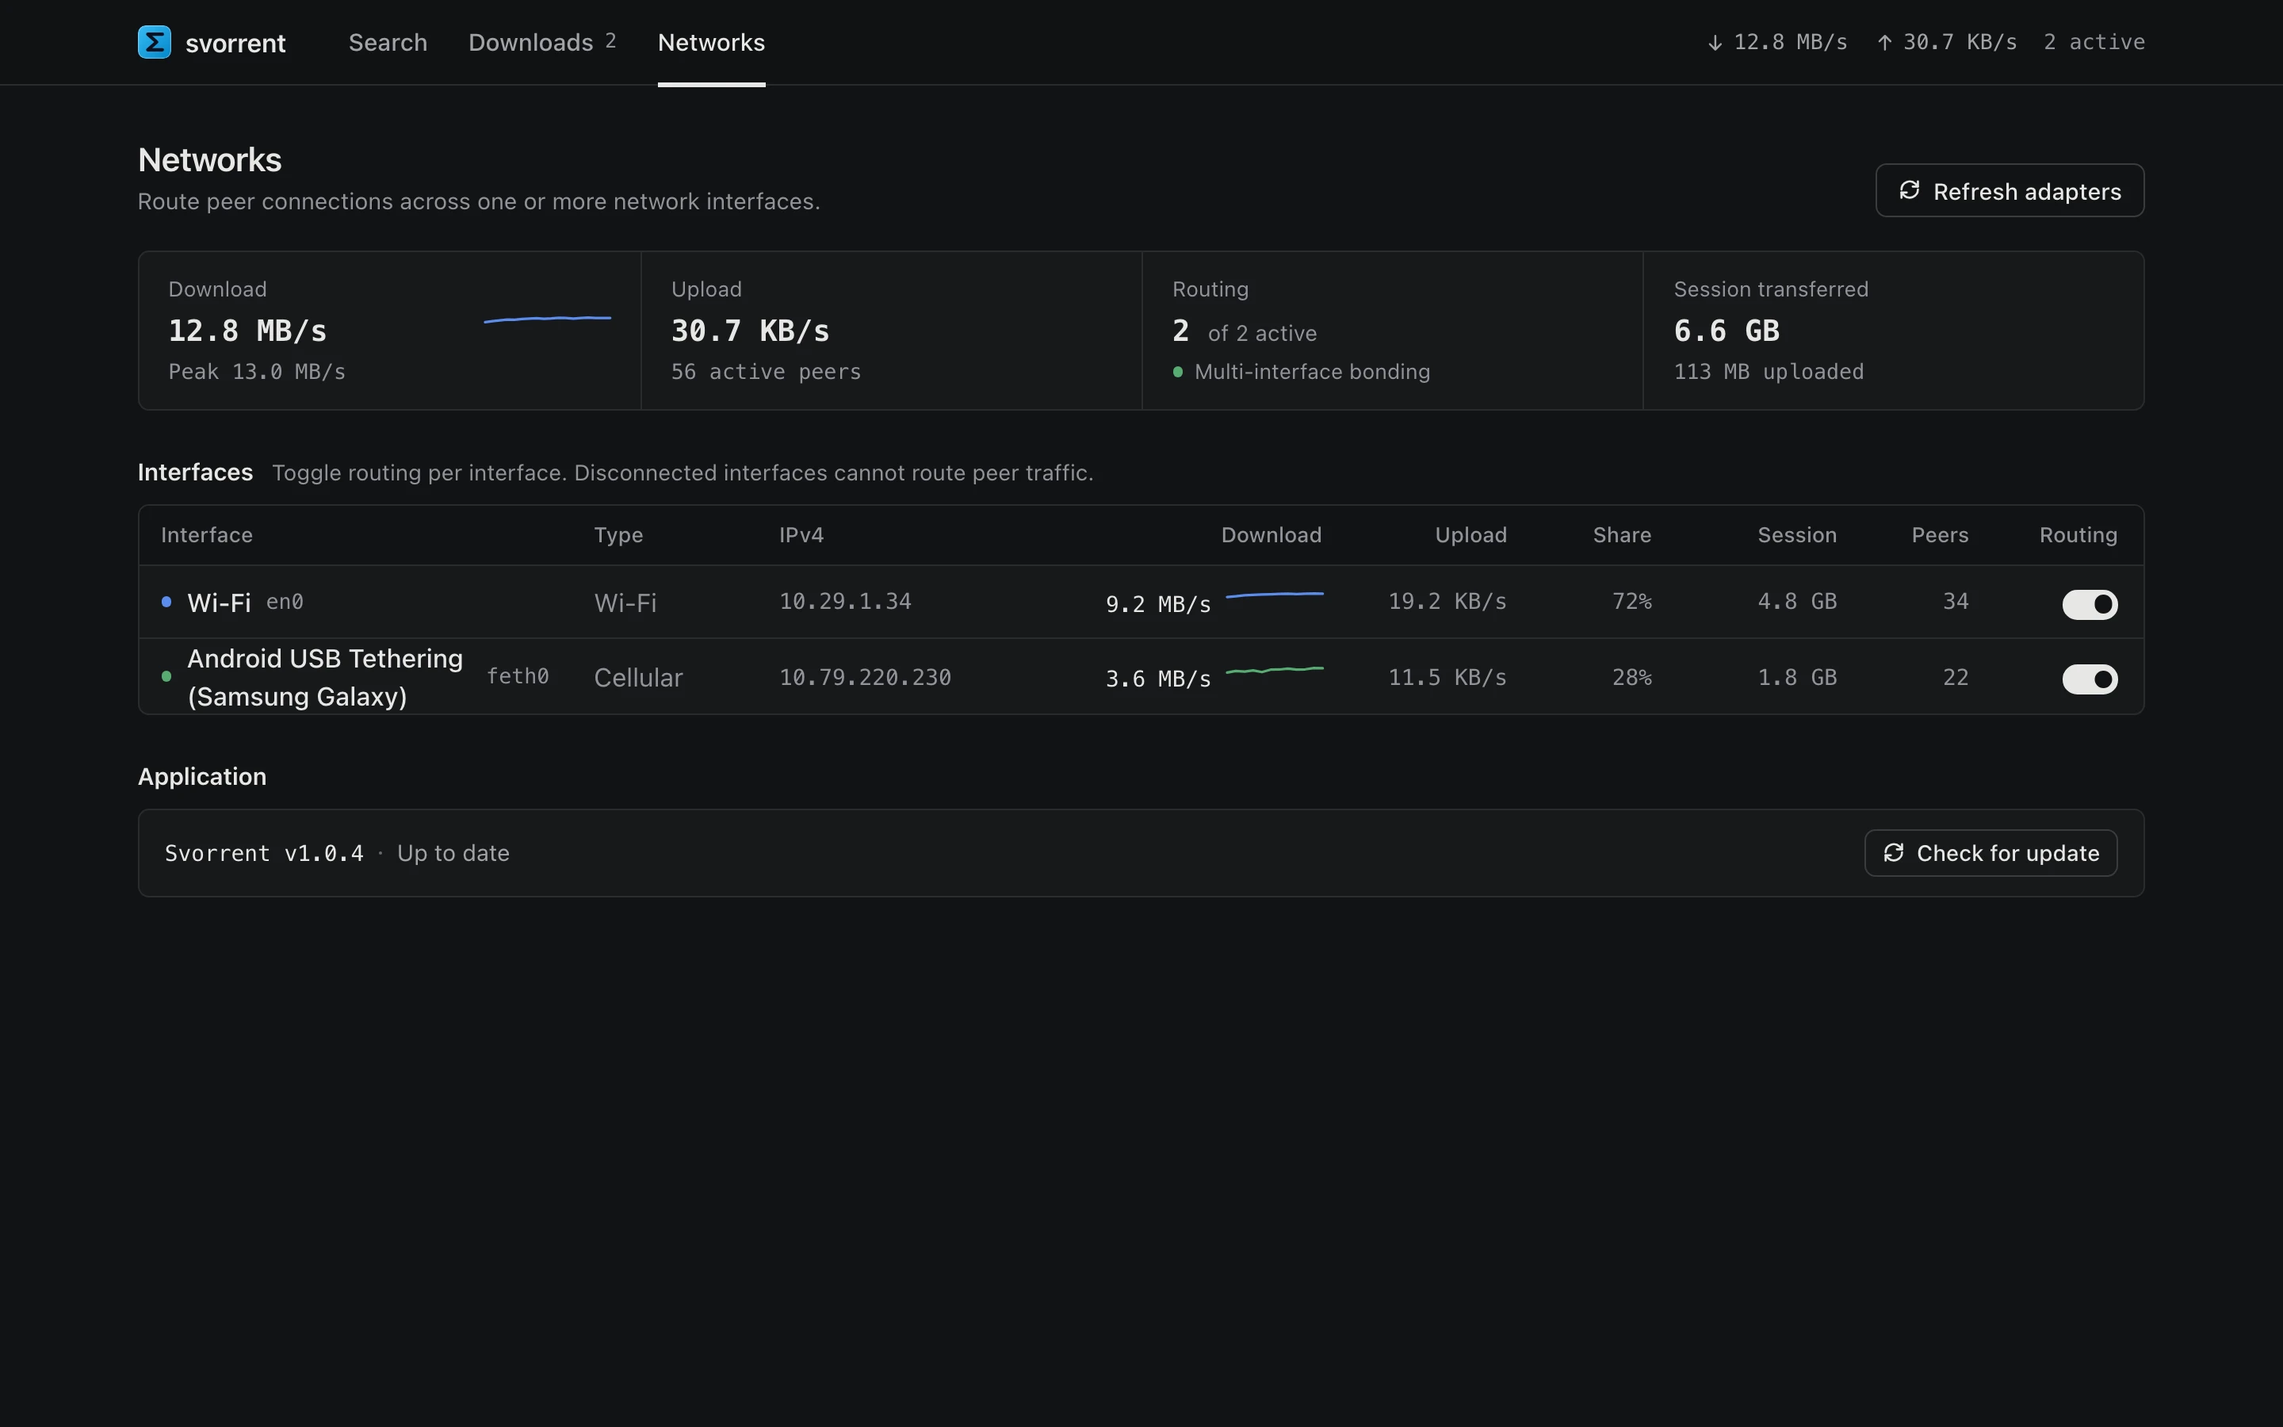
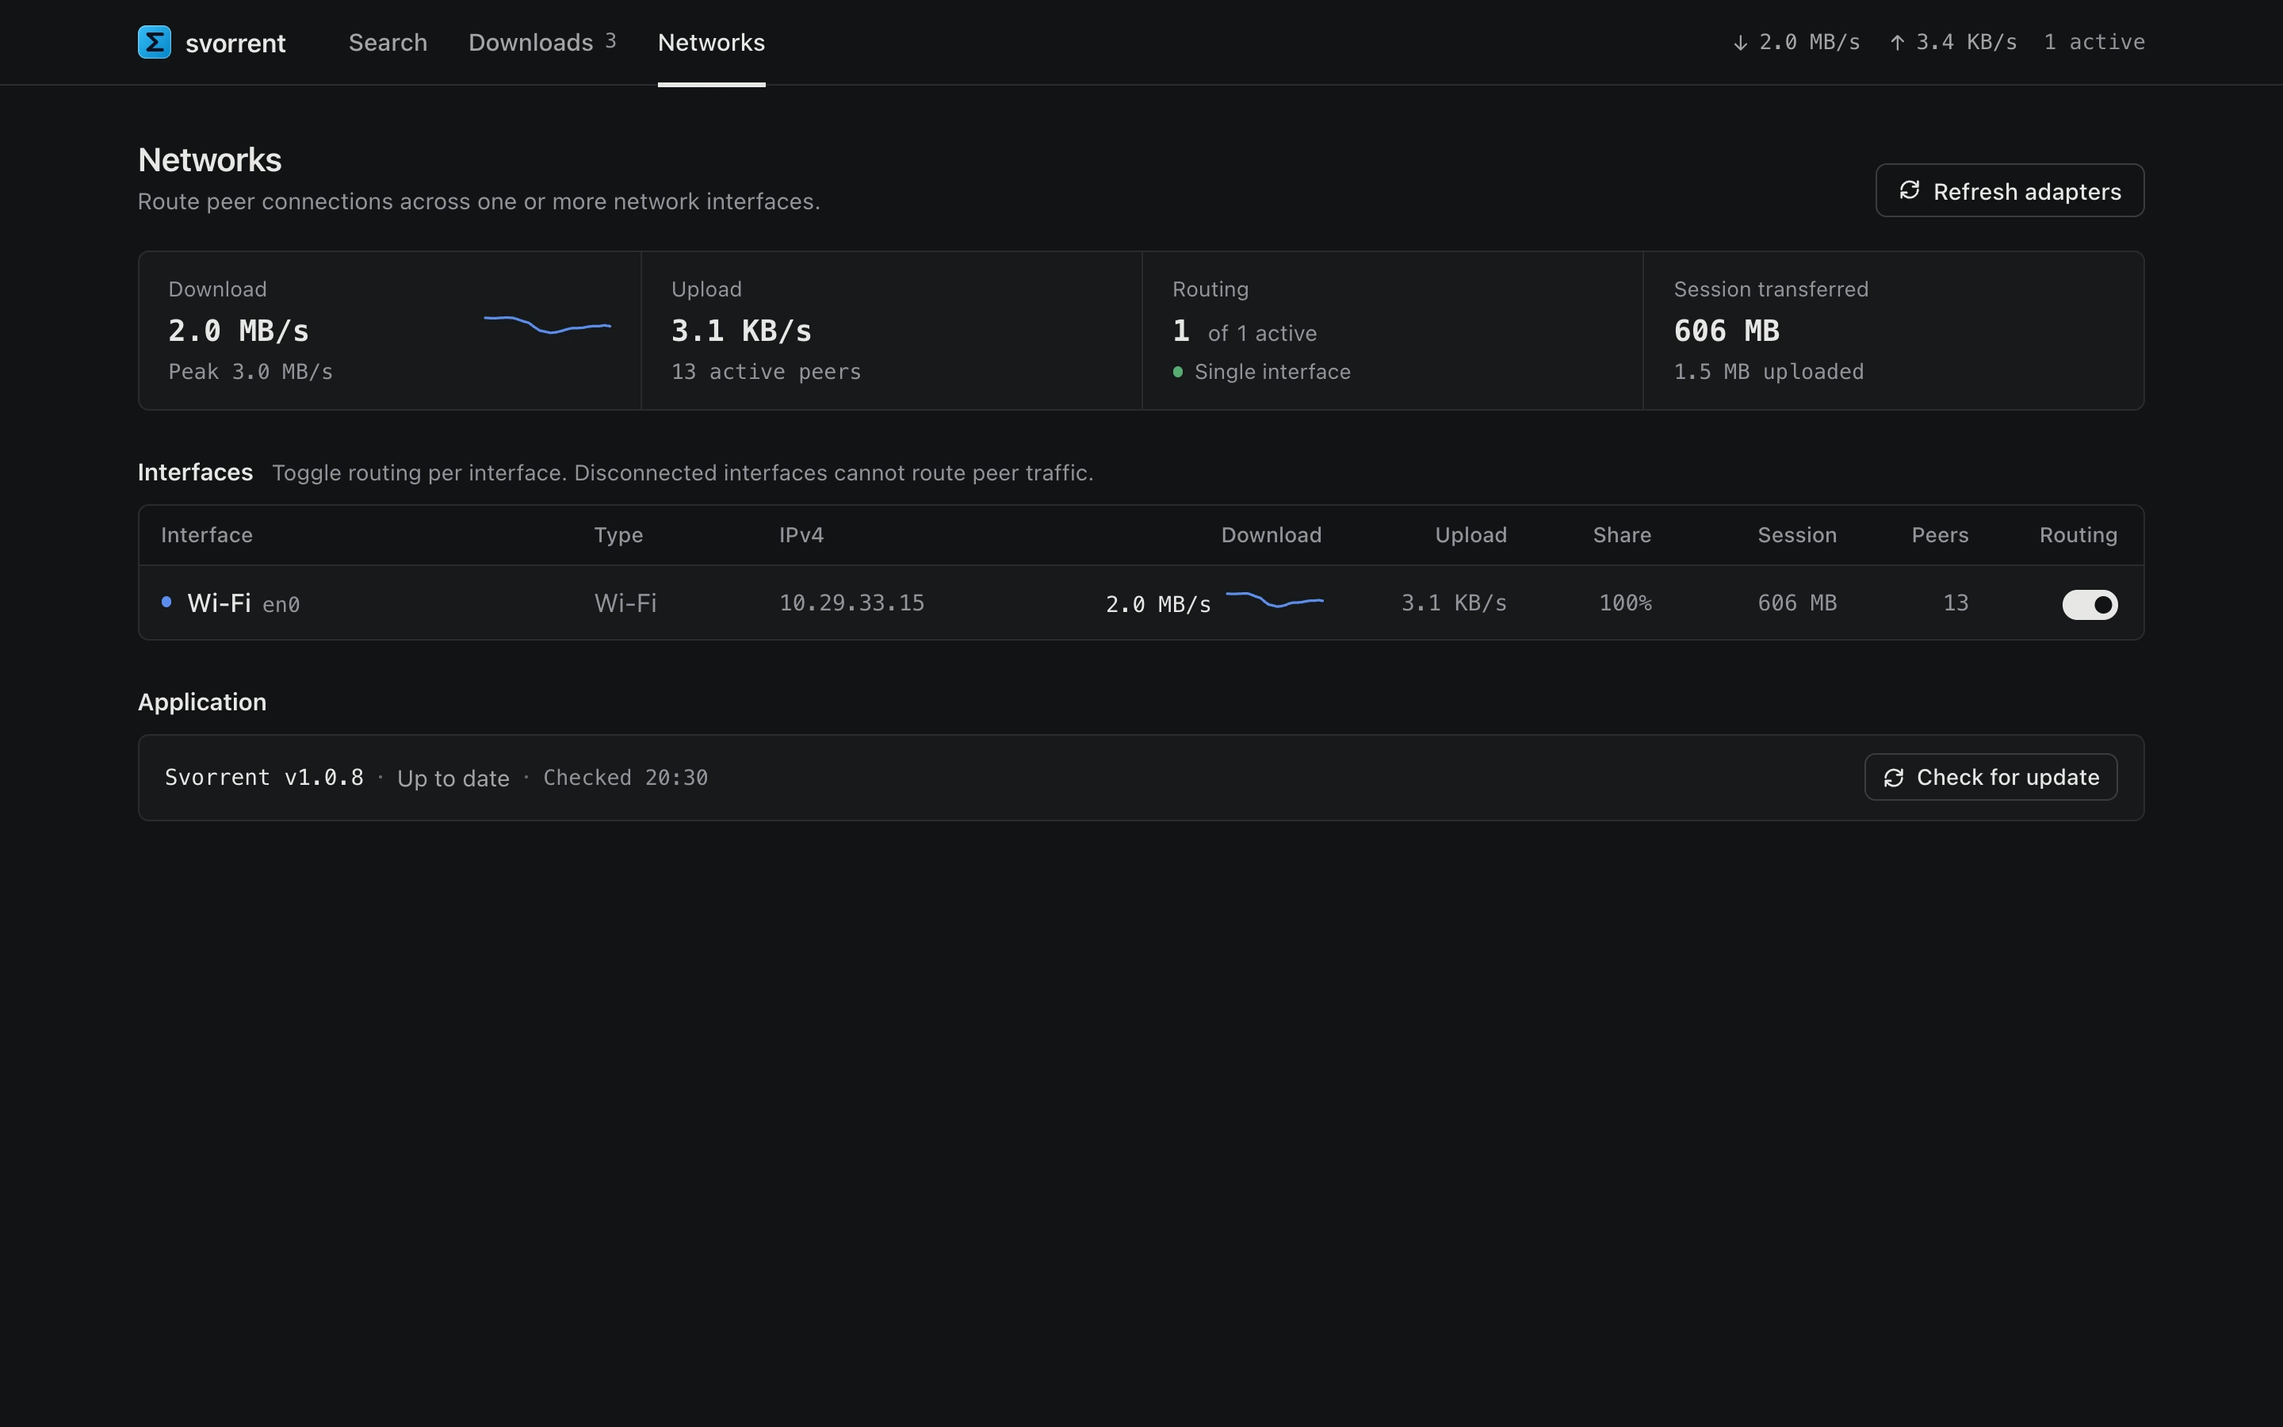
docs: update README, screenshots, and dependency security for v1.0.8 release (#60)

diff --git a/README.md b/README.md
@@ -18,15 +18,16 @@
 
 ---
 
-## Downloads (v1.0.7)
+## Downloads (v1.0.8)
 
-Svorrent uses a local web interface. Desktop launchers start the backend and open the interface in your default browser. Node.js 22.12 or newer is required; the current packages do not bundle it.
+Svorrent uses a local web interface. Desktop launchers start the backend and open the interface in your default browser. Desktop packages bundle an official standalone Node.js runtime (no external Node.js installation required).
 
 | Platform | Package | Size | Description |
 | :--- | :--- | :--- | :--- |
+| **macOS (Apple Silicon)** | [**`Svorrent.dmg`**](https://github.com/sovopr/svorrent/releases/latest/download/Svorrent.dmg) | 47.4 MB | Native Apple Silicon disk image with bundled Node runtime and self-healing Cocoa launcher. Drag `Svorrent.app` into `/Applications`. |
+| **Windows (x64)** | [**`Svorrent-Setup.exe`**](https://github.com/sovopr/svorrent/releases/latest/download/Svorrent-Setup.exe) | 42.7 MB | Installer with Desktop & Start Menu shortcuts and bundled Node runtime. |
+| **Windows (Portable)** | [**`Svorrent-Windows-x64-Portable.zip`**](https://github.com/sovopr/svorrent/releases/latest/download/Svorrent-Windows-x64-Portable.zip) | 83.0 MB | Standalone portable archive for USB drives and isolated environments. |
 | **Android** | [**`Svorrent.apk`**](https://github.com/sovopr/svorrent/releases/latest/download/Svorrent.apk) | 47.3 MB | Native Android app with simultaneous Wi-Fi + Mobile Data (5G/LTE) bonding and background downloads. |
-| **Windows (x64)** | [**`Svorrent-Setup.exe`**](https://github.com/sovopr/svorrent/releases/latest/download/Svorrent-Setup.exe) | 23.4 MB | Installer with Desktop & Start Menu shortcuts. |
-| **macOS (Apple Silicon)** | [**`Svorrent.dmg`**](https://github.com/sovopr/svorrent/releases/latest/download/Svorrent.dmg) | 19.0 MB | Native Apple Silicon disk image. Drag `Svorrent.app` into `/Applications`. |
 
 The macOS package is arm64-only; an Intel Mac build is not currently available.
 The Android package is a standalone native app (Jetpack Compose + libtorrent C++ engine) featuring simultaneous multi-network bonding across Wi-Fi and Mobile Data (5G/LTE), background foreground service downloading, and direct in-app updates.
@@ -36,9 +37,12 @@ Releases include `SHA256SUMS.txt` and support SHA-256-verified in-app updates fr
 
 ## Features & Interface Workflow
 
-### 1. Torrent Search
-The search interface queries The Pirate Bay with a bounded request timeout and DNS-over-HTTPS (DoH) fallback.
-- Queries are deduplicated, normalized, and sortable by seeds, leechers, file size, or indexer source.
+### 1. Federated Torrent Search Engine
+The search interface aggregates results across multiple indexers and scrapers with bounded request timeouts and DNS-over-HTTPS (DoH) fallback:
+- **Federated Multi-Source Scraper**: Concurrently queries **BitSearch** (with multi-page scraper pagination), **The Pirate Bay** (apibay.org API), **Torrents.csv**, and **Nyaa** RSS.
+- **Un-Capped Exhaustive Results**: Search results are un-capped; queries return comprehensive result sets with pagination controls (25, 50, 100 per page) and windowed page selectors.
+- **Result Deduplication & Normalization**: Duplicate releases across indexers are merged by info hash, preserving the highest seed/leech counts.
+- **Swarm Integrity & Security**: 64-bit integer overflow protection masks erroneous tracker swarms, single-pass HTML entity decoding prevents double-unescaping vulnerabilities, and magnet resolution enforces strict numeric ID validation.
 - Magnets launch directly into the download pipeline with a single click.
 
 ![Search Interface](docs/screenshots/search.webp)
@@ -87,6 +91,8 @@ Svorrent distributes outgoing peer connections across multiple local network int
 
 - **Throughput-Weighted Multi-Interface Bonding**: Once each active adapter establishes a baseline of 4 peers, new peer connections are weighted proportionally to each adapter's live download speed (`downSpeed`) rather than blind 50/50 round-robin, preventing a slower cellular link from bottlenecking a faster Wi-Fi/Ethernet link.
 - **Harmonized Download & Upload Telemetry**: Both incoming and outgoing torrent protocol traffic (piece payloads, piece requests, HAVE notifications, keepalives) are harmonized across active interfaces, keeping per-adapter download/upload speeds, traffic share percentages, and session counters accurate.
+- **Responsive 2x2 KPI Grid & Interface Row Priority**: Clean quadrant symmetry across all viewport dimensions with column-prioritized layout for compact and mobile screens.
+- **Self-Healing Desktop Launchers**: Native macOS (`launcher_mac.m`) and Windows (`launcher.c`) launchers inspect port 3001 on startup, querying `/api/updater/status` against `build-info.json`. If a stale, mismatched, or hung process from an older build is running, the launcher automatically terminates it with SIGTERM + SIGKILL fallback and launches the fresh bundled backend.
 - **iOS Hotspot UDP Keepalive**: Proactive background UDP heartbeats prevent iOS cellular hotspots from dropping during active peer connections.
 - **Android USB Tethering (macOS)**: Native `svorrent-tetherd` service automatically manages RNDIS virtual interface binding and DHCP configuration.
 - **Per-Adapter Controls & Live Telemetry**: Toggle routing per interface on the fly with live download sparklines, peak speed tracking, traffic share percentages, and session data counters.
@@ -112,7 +118,7 @@ svorrent/
 │   │   └── libusb-1.0.0.dylib  # USB dependency
 │   ├── tether/                  # C++ tether daemon source (RNDIS / libusb)
 │   ├── lib/
-│   │   ├── search.js            # Multi-provider query expansion & result deduplication
+│   │   ├── search.js            # Federated scraper engine (BitSearch, TPB, Torrents.csv, Nyaa) & pagination
 │   │   ├── networks.js          # Throughput-weighted socket bonding & adapter telemetry
 │   │   ├── torrents.js          # Swarm pipeline accelerator, rolling frontier & pause recovery
 │   │   ├── updater.js           # In-app release & continuous repo code updater with self-tests
@@ -148,8 +154,8 @@ svorrent/
     ├── build-dmg.sh                 # macOS .app bundle and compressed DMG builder
     ├── build-windows.sh             # Windows Win32 launcher, NSIS installer, and portable ZIP builder
     ├── build-windows-snapshot.ps1   # PowerShell snapshot builder with commit stamping
-    ├── launcher_mac.m               # Native macOS Cocoa/Objective-C app launcher
-    ├── launcher.c                   # Native Win32 background daemon launcher (C/MinGW)
+    ├── launcher_mac.m               # Native macOS Cocoa app launcher with daemon verification & auto-termination
+    ├── launcher.c                   # Native Win32 daemon launcher with daemon verification & auto-termination
     ├── launcher.rc                  # Windows icon resource & manifest definition
     ├── manifest.xml                 # Windows DPI awareness and security application manifest
     └── installer.nsi                # Nullsoft NSIS installer configuration (LZMA solid compression)
@@ -274,9 +280,9 @@ flowchart TD
 | Component | Implementation |
 | :--- | :--- |
 | Core Protocol & Swarm | WebTorrent, libtorrent4j (Android C++), P2P Wire Protocol, DHT, 2.5× dynamic block pipeline accelerator, rolling critical frontier |
-| Desktop & Mobile Architecture | Native Win32 / macOS browser-client launchers (~19–23 MB packages, zero Electron overhead) & Native Jetpack Compose Android client (~47 MB) |
+| Desktop & Mobile Architecture | Native Win32 / macOS browser-client launchers (~42–47 MB packages with bundled standalone Node.js runtime, zero Electron overhead) & Native Jetpack Compose Android client (~47 MB) |
 | In-App Updater | SHA-256 release verification + continuous `main` branch code integration with staged self-testing (Desktop) & in-app APK installer (Android) |
-| Search Engine | Multi-provider aggregation with bounded timeouts & DoH anti-censorship shield |
+| Search Engine | Federated multi-source scraper engine (BitSearch, The Pirate Bay, Torrents.csv, Nyaa) with un-capped pagination & DoH anti-censorship shield |
 | Network Routing & Bonding | Throughput-weighted multi-interface OS socket binding (macOS/Win) & Android ConnectivityManager multi-network socket bonding (Wi-Fi + 5G/LTE) |
 | Streaming Readiness Engine | ffprobe metadata extraction + MP4 `moov` atom inspection + dynamic buffer equation with EMA smoothing |
 | Swarm Telemetry | Piece bitfield availability heatmap, per-interface breakdown, and interactive vector SVG map |

diff --git a/docs/releases/v1.0.8.md b/docs/releases/v1.0.8.md
@@ -1,0 +1,39 @@
+# Svorrent v1.0.8
+
+This release introduces the federated multi-source scraper search engine, eliminates the 40-item search cap with responsive pagination controls, resolves 22 security advisories, introduces a responsive symmetrical Networks interface, bundles standalone Node.js runtimes for zero-dependency desktop execution, and equips desktop launchers with startup daemon verification and auto-termination.
+
+## Changes since v1.0.7
+
+- **Federated Multi-Source Scraper Engine:** Replaced the legacy single-provider scraper with a concurrent federated engine querying BitSearch (with multi-page HTML scraper pagination), The Pirate Bay (apibay.org API), Torrents.csv, and Nyaa RSS.
+- **Un-Capped Search Results with Interactive Pagination:** Eliminated the 40-result hard cap. Searches now return hundreds of verified results with pagination controls (25, 50, 100 per page) and windowed page selectors.
+- **CVE Reduction & Zero-Dependency Scraper:** Removed the deprecated `torrent-search-api` package, eliminating 22 inherited CVEs. Built native zero-dependency HTTPS scrapers with single-pass entity decoding and loop-based tag stripping.
+- **Swarm Integer Sanitization:** Implemented 64-bit overflow masking and underflow clamping to eliminate absurd seed/leech counts caused by malformed tracker protocol payloads.
+- **Responsive Networks Dashboard:** Overhauled the Networks tab layout with a 2x2 symmetrical quadrant KPI card grid across all viewport widths. Added responsive column priority to the interfaces table, displaying IP and adapter type as an inline subline on mobile screens to preserve live speed meters and routing toggles without horizontal clipping.
+- **Self-Healing Desktop Launchers:** Native macOS (`launcher_mac.m`) and Windows (`launcher.c`) launchers now verify `/api/updater/status` against `build-info.json` before reusing port 3001. If a stale or mismatched background process from an older build is detected, the launcher automatically force-terminates it and launches the fresh bundled backend.
+- **Bundled Standalone Node.js Runtime:** Application packages for macOS and Windows now bundle an official standalone Node.js runtime, allowing users to run Svorrent without installing Node.js separately.
+- **Guaranteed In-Memory Process Termination:** Resolved the macOS `.app` bundle path resolution bug and enforced unconditional process exit timeouts upon update installation across all platforms.
+
+## Downloads
+
+| Platform | Package | Size | Description |
+| :--- | :--- | :--- | :--- |
+| **macOS (Apple Silicon)** | [**`Svorrent.dmg`**](https://github.com/sovopr/svorrent/releases/download/v1.0.8/Svorrent.dmg) | **47.4 MB** | Native Apple Silicon disk image with bundled Node runtime and self-healing Cocoa launcher. Drag `Svorrent.app` into `/Applications`. |
+| **Windows (x64)** | [**`Svorrent-Setup.exe`**](https://github.com/sovopr/svorrent/releases/download/v1.0.8/Svorrent-Setup.exe) | **42.7 MB** | Installer with Desktop & Start Menu shortcuts and bundled Node runtime. |
+| **Windows (Portable)** | [**`Svorrent-Windows-x64-Portable.zip`**](https://github.com/sovopr/svorrent/releases/download/v1.0.8/Svorrent-Windows-x64-Portable.zip) | **83.0 MB** | Standalone portable archive for USB drives and isolated environments. |
+| **Android** | [**`Svorrent.apk`**](https://github.com/sovopr/svorrent/releases/download/v1.0.8/Svorrent.apk) | **47.3 MB** | Native Android app with simultaneous Wi-Fi + Mobile Data (5G/LTE) bonding and background downloads. |
+
+## SHA-256 Checksums
+
+```
+74294ae004969e09eea824a8d142a395d2f31791e9c041d92c0efab58567bc0f  Svorrent.dmg
+1d85862af4fff136163bb735c5ba722daf97ffb0e322af6df18267ae043a2257  Svorrent-Setup.exe
+6d1bf4a91e7e759a778b0492a170a4e69903b14ce841cdf00662cc8467f308bb  Svorrent-Windows-x64-Portable.zip
+7a1bc72a47d2891faefbba0b7cd5cbc0a97a87b765ea045a9bc91392ccc775ff  Svorrent.apk
+```
+
+## Compatibility and verification
+
+- Desktop packages bundle an official standalone Node.js runtime. An external Node.js installation is no longer required.
+- The macOS DMG targets Apple Silicon (arm64). The app is ad-hoc code signed.
+- Windows packages target x64 (Windows 10/11).
+- All multi-platform deterministic test suites, Playwright browser E2E workflows, and CodeQL security scans passed.

diff --git a/docs/dependency-security.md b/docs/dependency-security.md
@@ -1,7 +1,9 @@
 # Dependency security
 
-CI runs a production-dependency audit on both npm lockfiles and uploads the JSON reports. The audit is currently non-gating: on 2026-10-28 the backend had 26 inherited advisories after applying npm's non-breaking fixes (13 high, 2 critical). The frontend had none. A clean CI result therefore means the audit completed, not that the backend has no advisories.
+CI runs a production-dependency audit on both npm lockfiles and uploads the JSON reports.
 
-Most unresolved backend advisories enter through the legacy `torrent-search-api` / `request` scraper tree, which has dependencies without maintained fixes. Others enter through WebTorrent's tracker dependency. Do not use `npm audit fix --force`: npm proposes an incompatible tracker downgrade that would break torrent behavior. Replace or isolate the search provider implementation and update the tracker stack with integration tests before making the audit a required clean check.
+In v1.0.8, the legacy `torrent-search-api` / `request` scraper package was completely removed and replaced by native zero-dependency scrapers. This eliminated 22 inherited advisories (including all critical CVEs). The frontend has 0 advisories.
+
+The 4 remaining backend advisories are confined to the upstream `ip` package dependency inherited through WebTorrent's tracker client stack (`bittorrent-tracker` -> `torrent-discovery` -> `webtorrent`). Do not use `npm audit fix --force`: npm proposes an incompatible tracker downgrade that would break torrent discovery behavior.
 
 Dependabot opens weekly pull requests for backend, frontend, and GitHub Actions dependency updates. Review the attached audit report after each change and keep the loopback torrent, browser-download, and media-decoding tests green.
